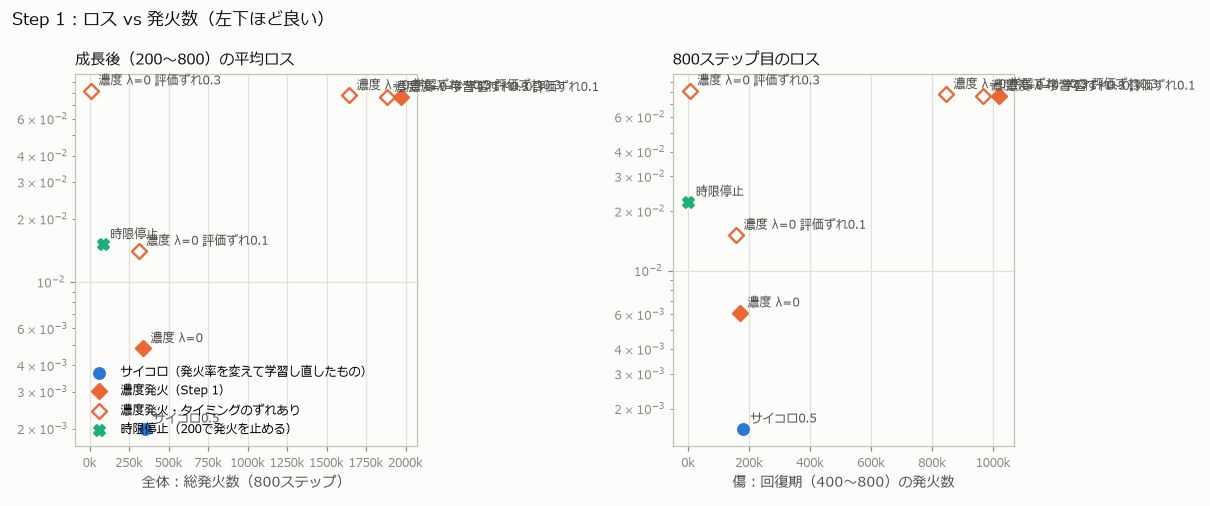
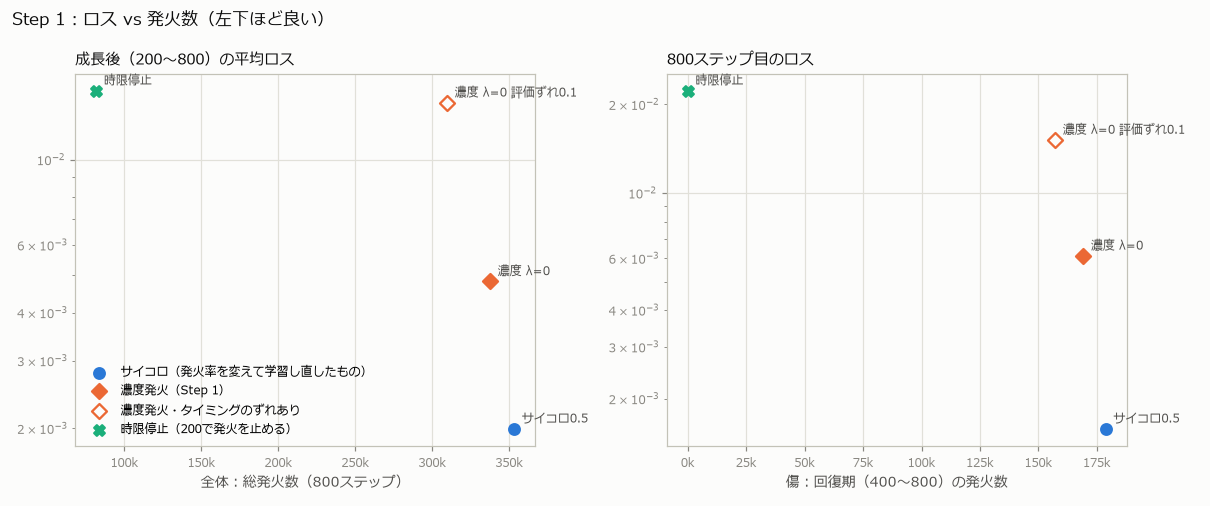
compare.py：花にならなかった実行（成長後の平均ロス0.05以上）はパレート図から外す（表には残す）
Claude-Session: https://claude.ai/code/session_01TmaKpn9cxVusv5KHaDVdKn

diff --git a/step1_concentration/compare.py b/step1_concentration/compare.py
@@ -88,7 +88,11 @@ def table(items):
     return "\n".join(lines)
 
 
+FAILED_LOSS = 0.05   # 成長後の平均ロスがこれ以上（空のキャンバスは約0.08）なら、花になっていないので図から外す
+
+
 def plot(items, path):
+    items = [it for it in items if metrics(it["s"])["after_loss"] < FAILED_LOSS]
     import matplotlib
     matplotlib.use("Agg")
     import matplotlib.pyplot as plt
@@ -140,7 +144,9 @@ def main():
     out = HERE / "report"
     out.mkdir(exist_ok=True)
     md = ["# Step 1 の比較", "", "`step1_concentration/compare.py` が作る表。数字は各 run の summary.json から。",
-          "「傷→0.005」は、傷のあとロスが 0.005 以下に戻るまでのステップ数と、そこまでの発火数。", "",
+          "「傷→0.005」は、傷のあとロスが 0.005 以下に戻るまでのステップ数と、そこまでの発火数。",
+          f"図（pareto.png）には、成長後の平均ロスが {FAILED_LOSS} 未満のもの（花になったもの）だけを載せる。"
+          "空のキャンバスのロスは約0.08。", "",
           table(items), ""]
     (out / "compare.md").write_text("\n".join(md), encoding="utf-8")
     plot(items, out / "pareto.png")

diff --git a/step1_concentration/report/compare.md b/step1_concentration/report/compare.md
@@ -2,6 +2,7 @@
 
 `step1_concentration/compare.py` が作る表。数字は各 run の summary.json から。
 「傷→0.005」は、傷のあとロスが 0.005 以下に戻るまでのステップ数と、そこまでの発火数。
+図（pareto.png）には、成長後の平均ロスが 0.05 未満のもの（花になったもの）だけを載せる。空のキャンバスのロスは約0.08。
 
 | 名前 | 総発火 | 成長期末ロス | 維持期 発火/ステップ | 維持期 平均ロス | 成長後 平均ロス | 傷→0.005（ステップ / 発火） | 傷→0.002（ステップ / 発火） | 回復期 発火 | 800のロス |
 |---|---:|---:|---:|---:|---:|---:|---:|---:|---:|
